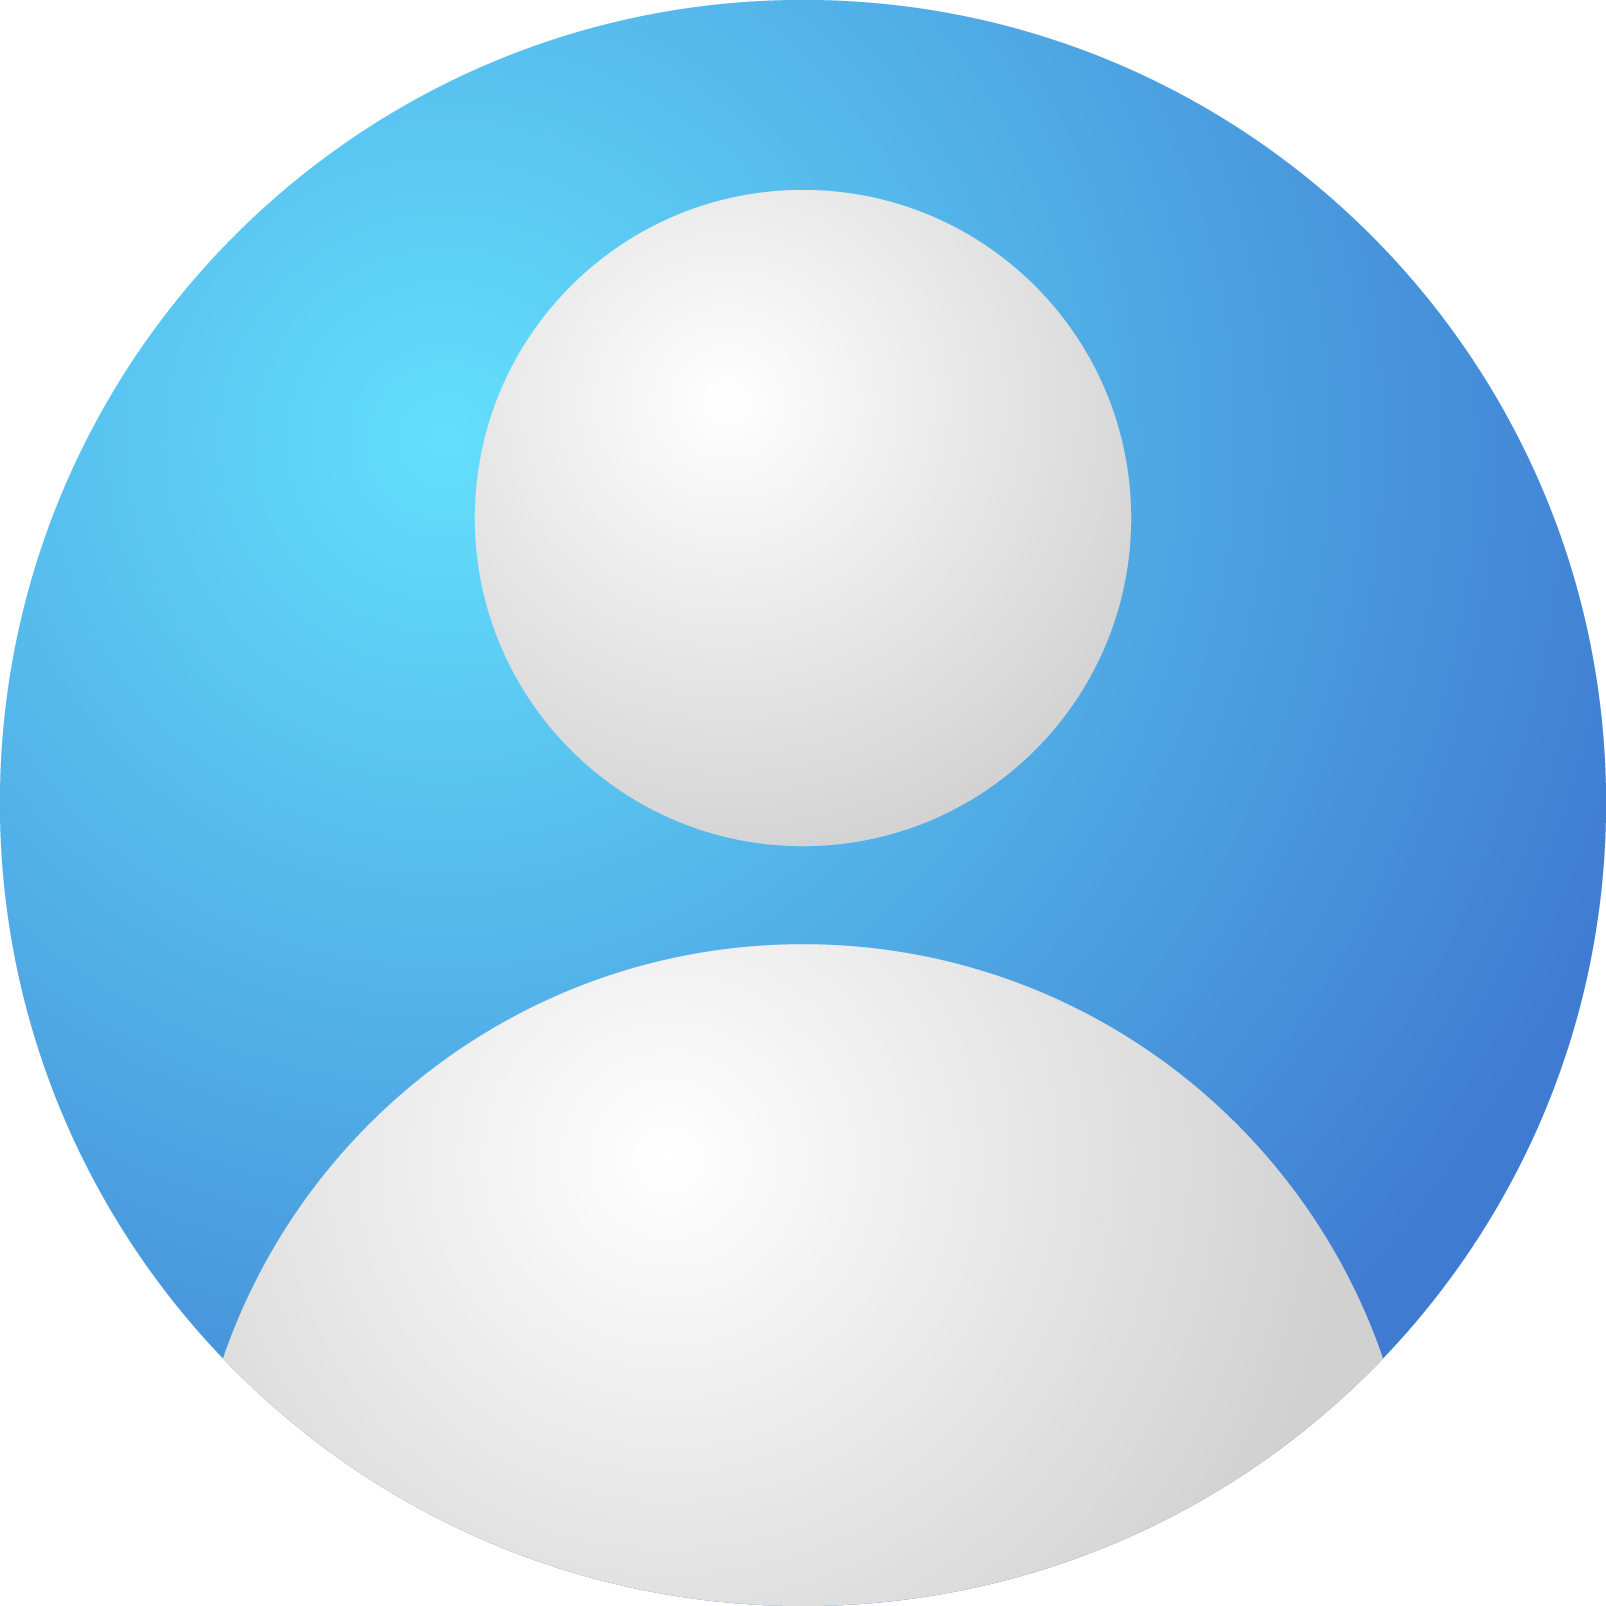
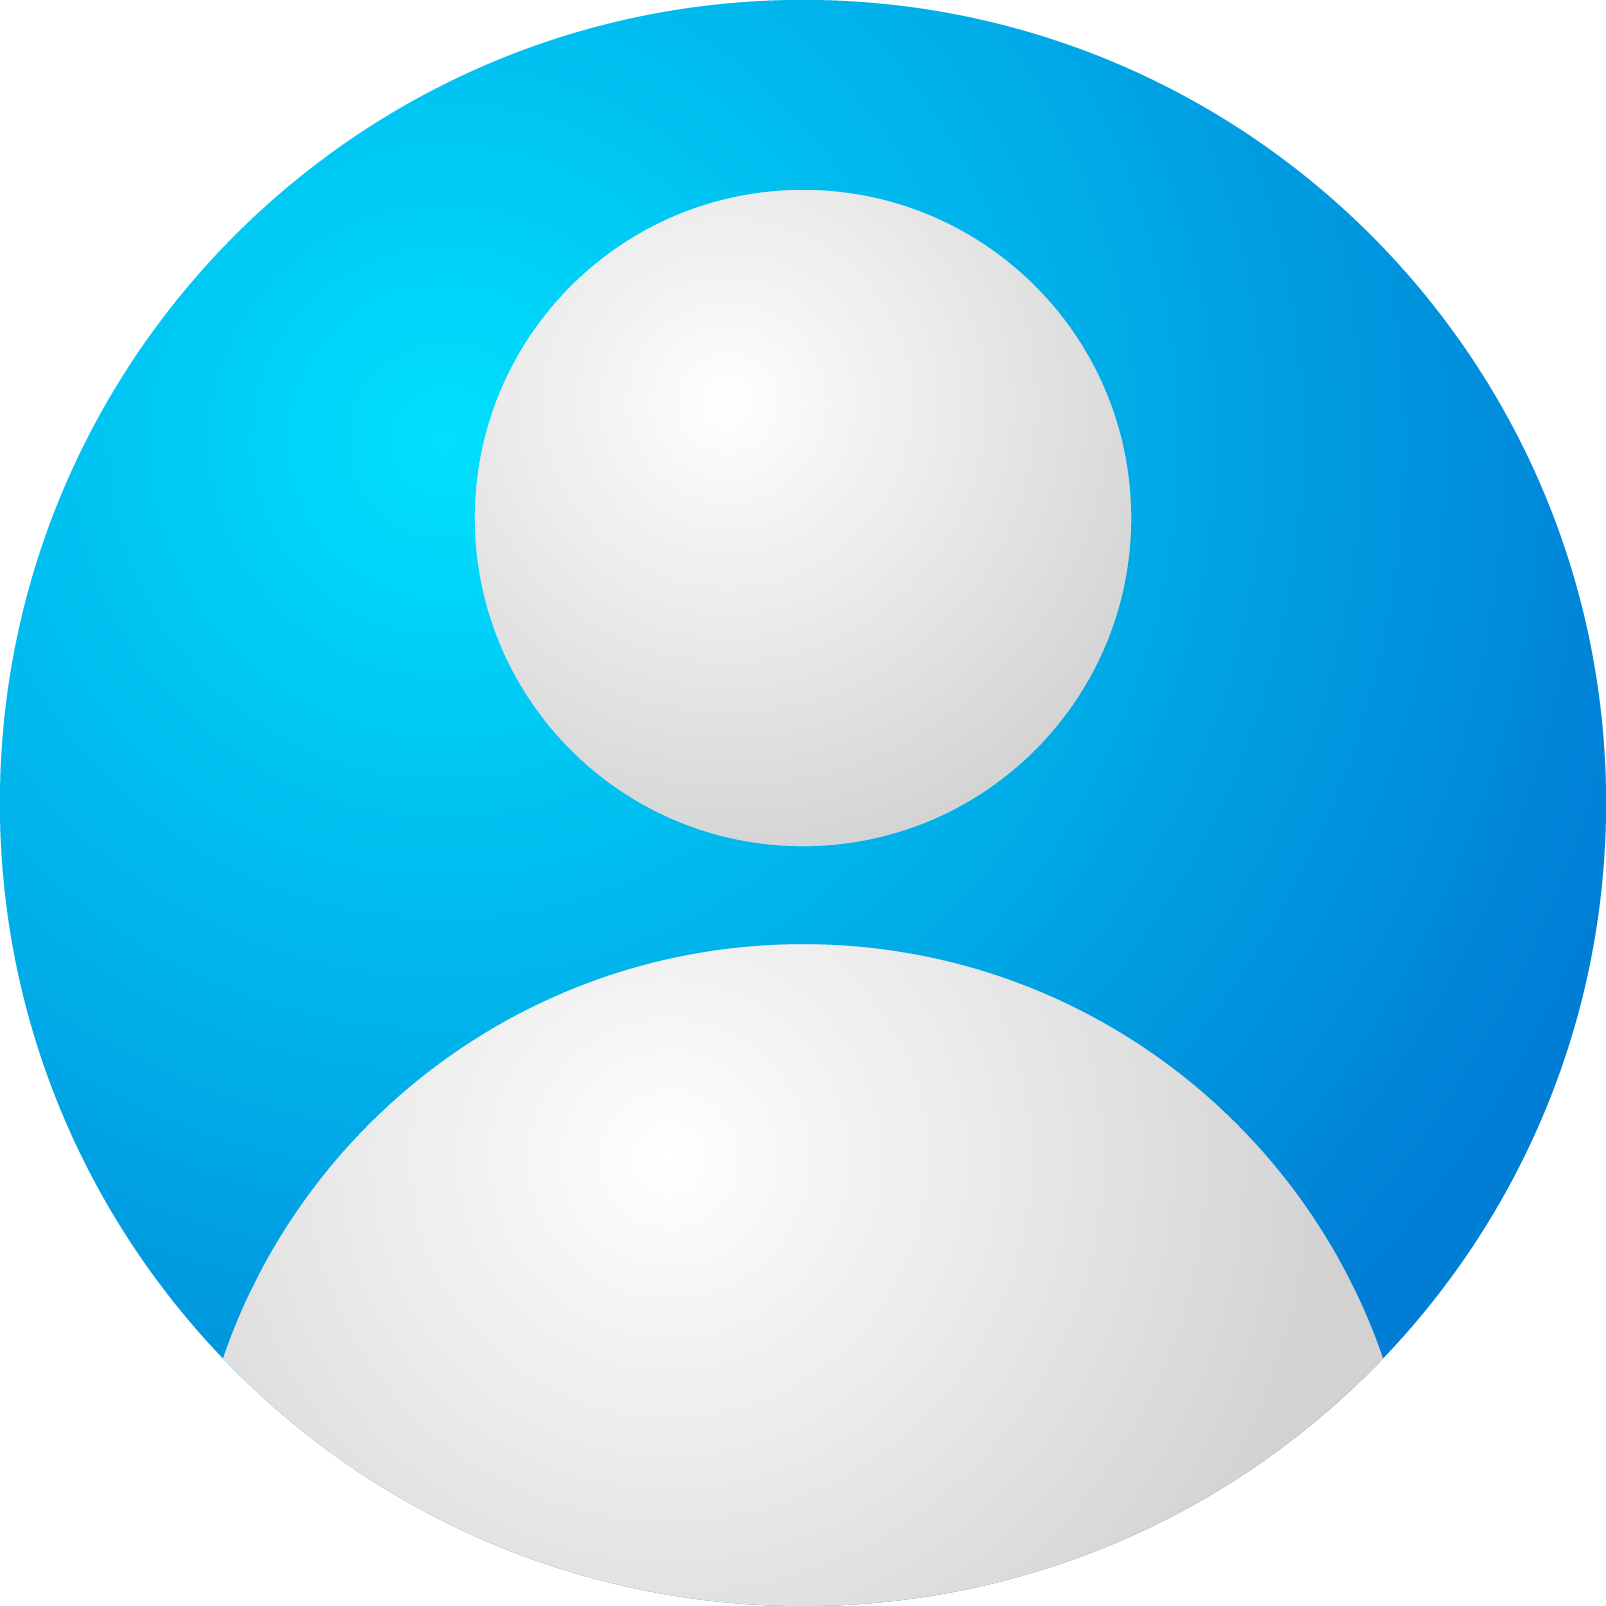
domingofsarmiento_app

diff --git a/views/main_view.py b/views/main_view.py
@@ -2,7 +2,7 @@
 
 from tkinter import *
 import ttkbootstrap as tb
-from ttkbootstrap.widgets import Menubutton
+from ttkbootstrap.widgets import Menubutton # << 1. CORREGIDO: Es 'Menubutton' con 'b' minúscula
 from PIL import Image, ImageTk
 
 class MainView(tb.Frame):
@@ -25,12 +25,11 @@ class MainView(tb.Frame):
         self.header.grid(row=0, column=0, columnspan=2, sticky="ew")
 
         # Frame para alinear los elementos del usuario a la derecha del header
-        # 1. ELIMINADO: Eliminar el bootstyle "light" aquí.
-        #    Esto permite que el user_frame herede un fondo que permita la transparencia visual del icono.
-        user_frame = tb.Frame(self.header) 
+        user_frame = tb.Frame(self.header, bootstyle="light")
         user_frame.pack(side="right", padx=10, pady=5)
 
         # Creación del menú desplegable
+        # << 2. CORREGIDO: La instanciación también usa 'Menubutton'
         self.user_menubutton = Menubutton(user_frame, text="Usuario", bootstyle="light")
         self.user_menubutton.pack(side="right", padx=(5, 0))
 
@@ -47,15 +46,12 @@ class MainView(tb.Frame):
 
         # Carga y muestra del ícono de usuario
         try:
-            img = Image.open("imagenes/user_icon_transparente.png").resize((24, 24), Image.Resampling.LANCZOS)
+            img = Image.open("imagenes/user_icon.jpg").resize((24, 24), Image.Resampling.LANCZOS)
             self.user_icon = ImageTk.PhotoImage(img)
             
-            # 2. ELIMINADO: Eliminar el bootstyle "light" del icon_label.
-            #    Esto es CRÍTICO para que el Label no imponga un fondo blanco.
-            icon_label = tb.Label(user_frame, image=self.user_icon)
+            icon_label = tb.Label(user_frame, image=self.user_icon, bootstyle="light")
             icon_label.pack(side="right")
         except Exception as e:
-            # En caso de error, se usa un texto alternativo
             print(f"Error cargando user_icon.png: {e}")
             icon_label = tb.Label(user_frame, text="👤", bootstyle="primary", font=("", 14))
             icon_label.pack(side="right")
